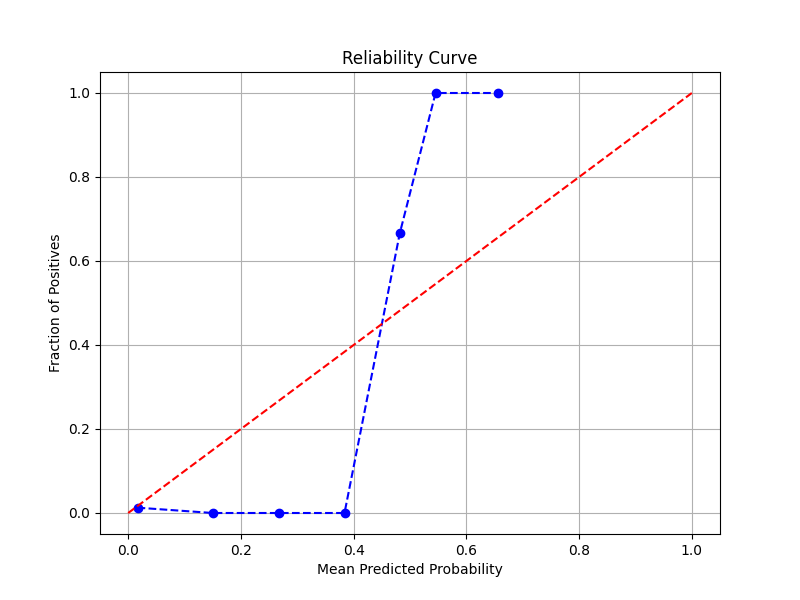
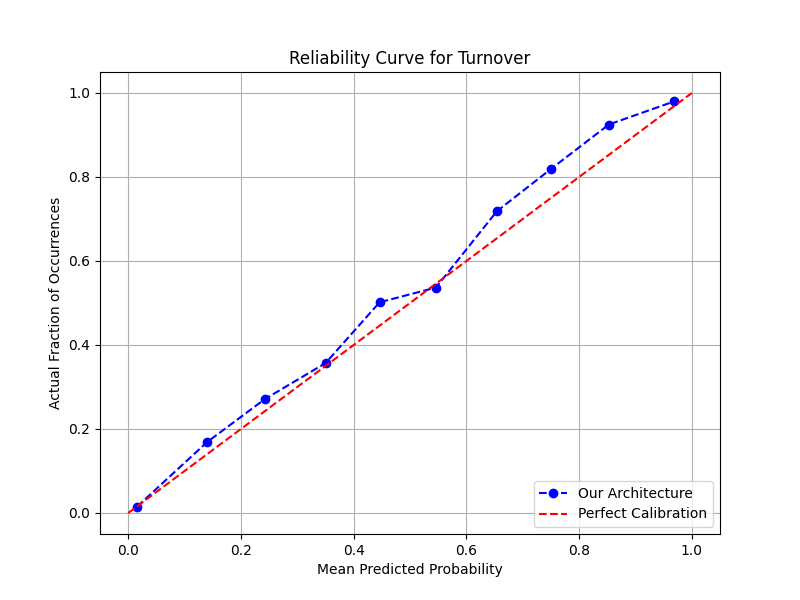
ugh

diff --git a/plottingGraphs.py b/plottingGraphs.py
@@ -78,10 +78,10 @@ def plotLearningCurve(history,X_train,modelName):
 
 
 mapping = {
-    0.0: "null",
-    1.0: "FG Try",
-    2.0: "Shoot F.",
-    3.0: "Nonshoot F.",
+    0.0: "Null",
+    1.0: "FG Attempt",
+    2.0: "Shooting Foul",
+    3.0: "Non-Shooting Foul",
     4.0: "Turnover"
 }
 
@@ -140,7 +140,12 @@ def plot_percent_error(label_counts_actual, label_counts_predicted, modelName):
 @print_error_and_continue
 def plotLabelFreqAndPercentErr(history, X_test, y_test, model, modelName):
     y_pred = model.predict(X_test)
-    actual_time_series = y_test
+
+    y_test_formatted = []
+
+    for eachGame in y_test:
+        y_test_formatted.extend(eachGame)
+    actual_time_series = y_test_formatted
     predicted_time_series = y_pred
 
     actual_time_series = np.array(actual_time_series)
@@ -157,6 +162,9 @@ def plotLabelFreqAndPercentErr(history, X_test, y_test, model, modelName):
 import matplotlib.pyplot as plt
 from sklearn.calibration import calibration_curve
 
+from sklearn.calibration import calibration_curve
+
+import matplotlib.pyplot as plt
 from sklearn.calibration import calibration_curve
 
 def plot_reliability_curve(model, X_test, y_test, class_index, modelName, n_bins=10):
@@ -176,14 +184,16 @@ def plot_reliability_curve(model, X_test, y_test, class_index, modelName, n_bins
 
     # Plot the reliability curve
     plt.figure(figsize=(8, 6))
-    plt.plot(prob_pred, prob_true, marker='o', linestyle='--', color='blue')
-    plt.plot([0, 1], [0, 1], linestyle='--', color='red')
+    plt.plot(prob_pred, prob_true, marker='o', linestyle='--', color='blue', label='Our Architecture')
+    plt.plot([0, 1], [0, 1], linestyle='--', color='red', label='Perfect Calibration')
     plt.xlabel('Mean Predicted Probability')
-    plt.ylabel('Fraction of Positives')
-    plt.title('Reliability Curve')
+    plt.ylabel('Actual Fraction of Occurrences')
+    plt.title(f'Reliability Curve for {mapping[class_index]}')
     plt.grid()
+    plt.legend(loc='lower right')  # Add a legend to the plot
     plt.savefig(f'Graphs_{modelName}/reliability_curve{mapping[class_index]}.png')
     plt.show()
+
 
 
 

diff --git a/testing_script.py b/testing_script.py
@@ -16,7 +16,7 @@ import json
 
 
 if sys.gettrace() is not None:  # Check if debugger is active
-    args = argparse.Namespace(path=r"0021500492.json" , event = 1)  # Provide default values for debugging
+    args = argparse.Namespace(path=r"0021500504.json" , event = 6)  # Provide default values for debugging
 else:
     parser = argparse.ArgumentParser(description='Process arguments about an NBA game.')
     parser.add_argument('--path', type=str,

diff --git a/Event.py b/Event.py
@@ -13,7 +13,7 @@ from globals import WINDOW_SIZE, MOMENT_SIZE
 
 from keras.models import load_model
 
-model1 = load_model(r"1D_Conv_LSTM_v7")
+model1 = load_model(r"1D_Conv_LSTM_v8")
 
 mapping = {
     0.0: "null",
